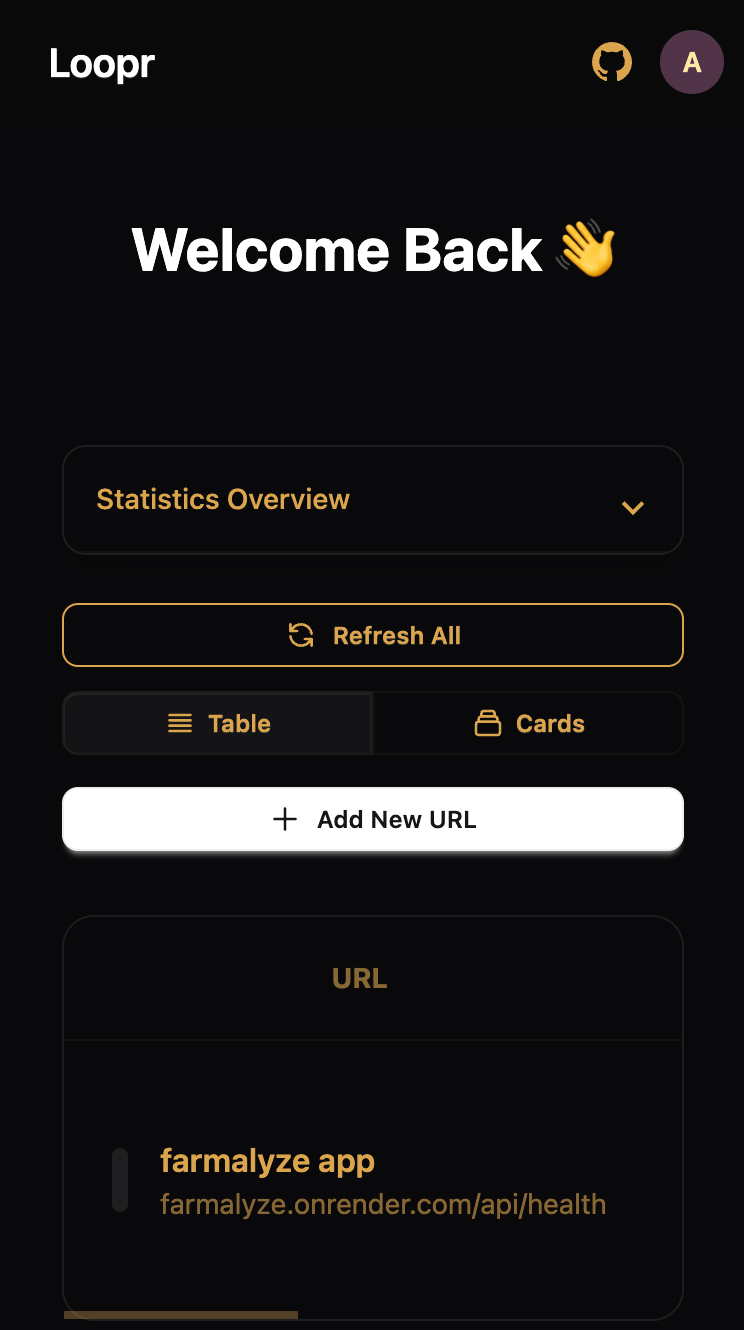
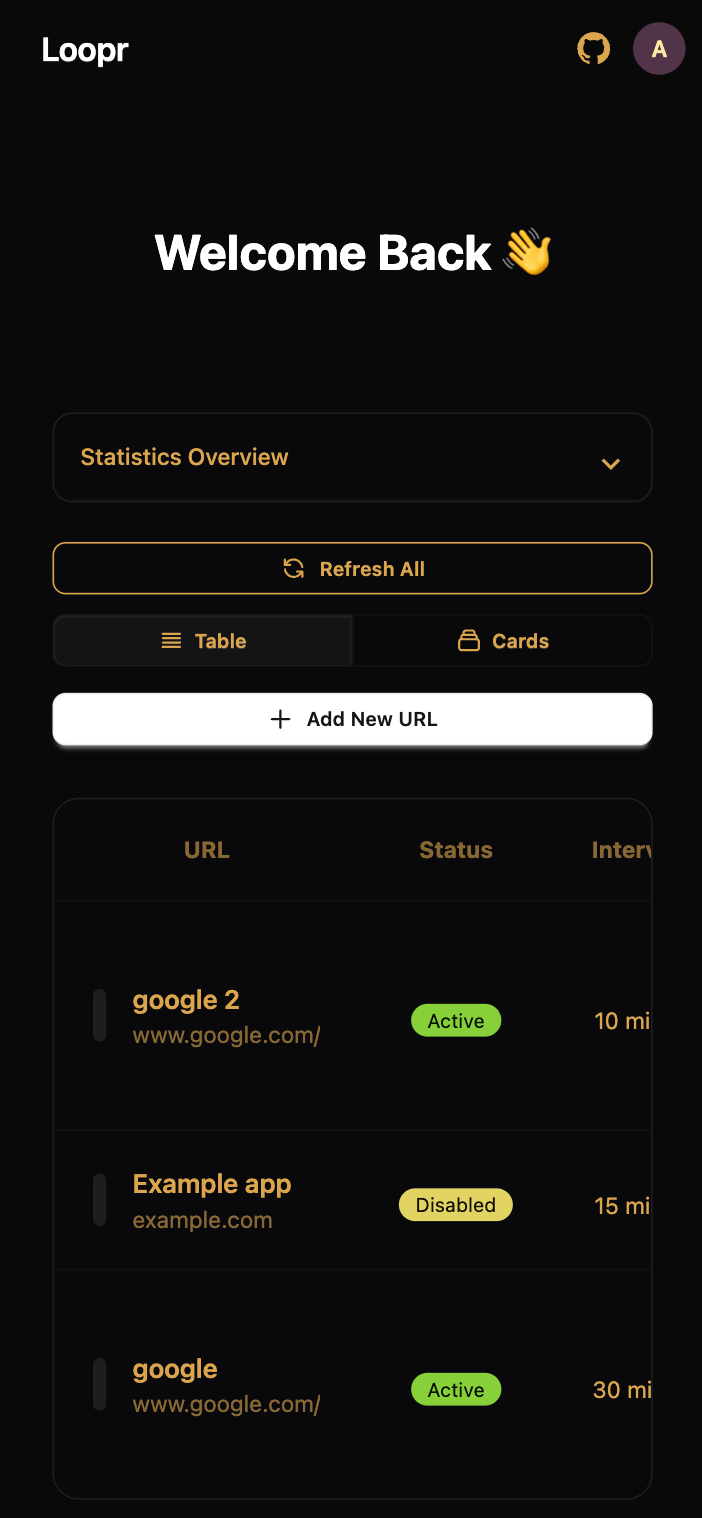
changed the image for homepage

diff --git a/src/routes/+page.svelte b/src/routes/+page.svelte
@@ -255,7 +255,7 @@
 					</div>
 				</div>
 				<!-- For mobile view -->
-				<!-- <div class="md:hidden">
+				<div class="md:hidden">
 					<a href="https://loopr-pi.vercel.app/" target="_blank" class="link">
 						<div class="card overflow-hidden bg-base-300 border-1 border-gray-900 shadow-xl">
 							<img
@@ -265,19 +265,19 @@
 							/>
 						</div></a
 					>
-				</div> -->
-				<div class="md:hidden justify-center">
+				</div>
+				<!-- <div class="md:hidden justify-center">
 					<div class="mockup-phone border-primary max-w-sm">
 						<div class="mockup-phone-camera"></div>
 						<div class="mockup-phone-display bg-base-100">
 							<img
 								alt="Screenshot of Loopr Dashboard"
 								class="w-full h-full object-cover"
-								src="/images/SCR-20250704-kwyp.png"
+								src="/images/dashboard-phone.png"
 							/>
 						</div>
 					</div>
-				</div>
+				</div> -->
 				<div class="mt-6 flex min-w-[270px] lg:mt-0 lg:min-w-[420px]">
 					<div class="my-auto">
 						<div class="px-4 text-lg md:text-xl">
